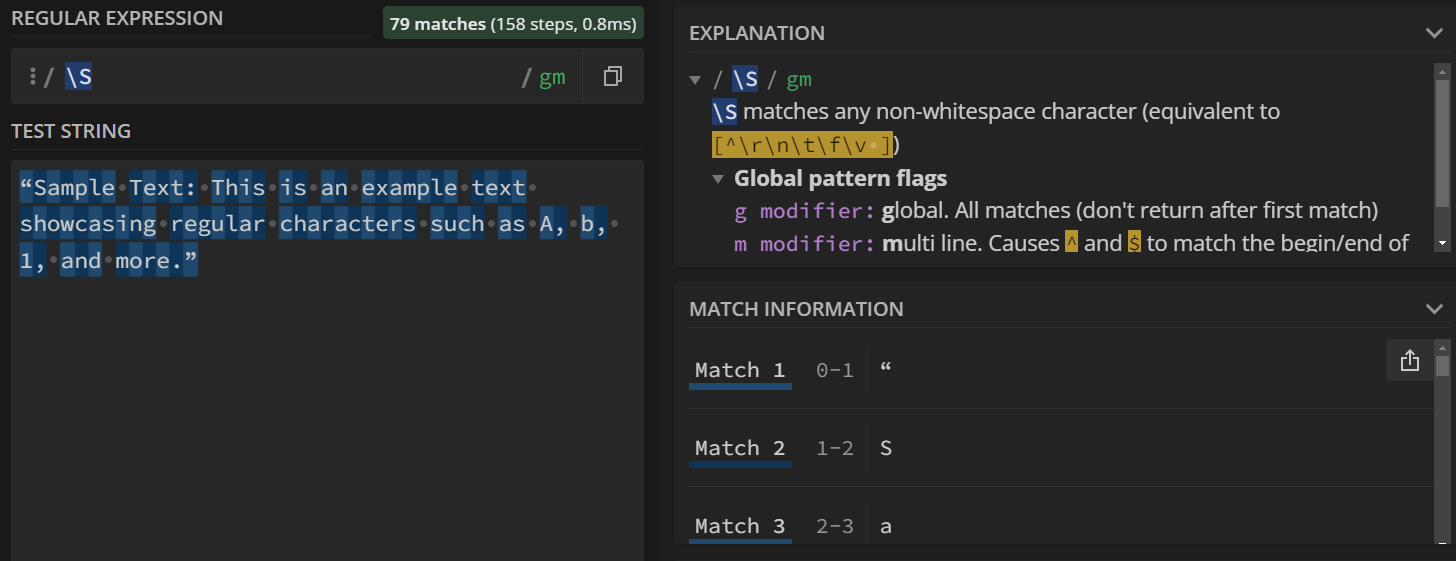
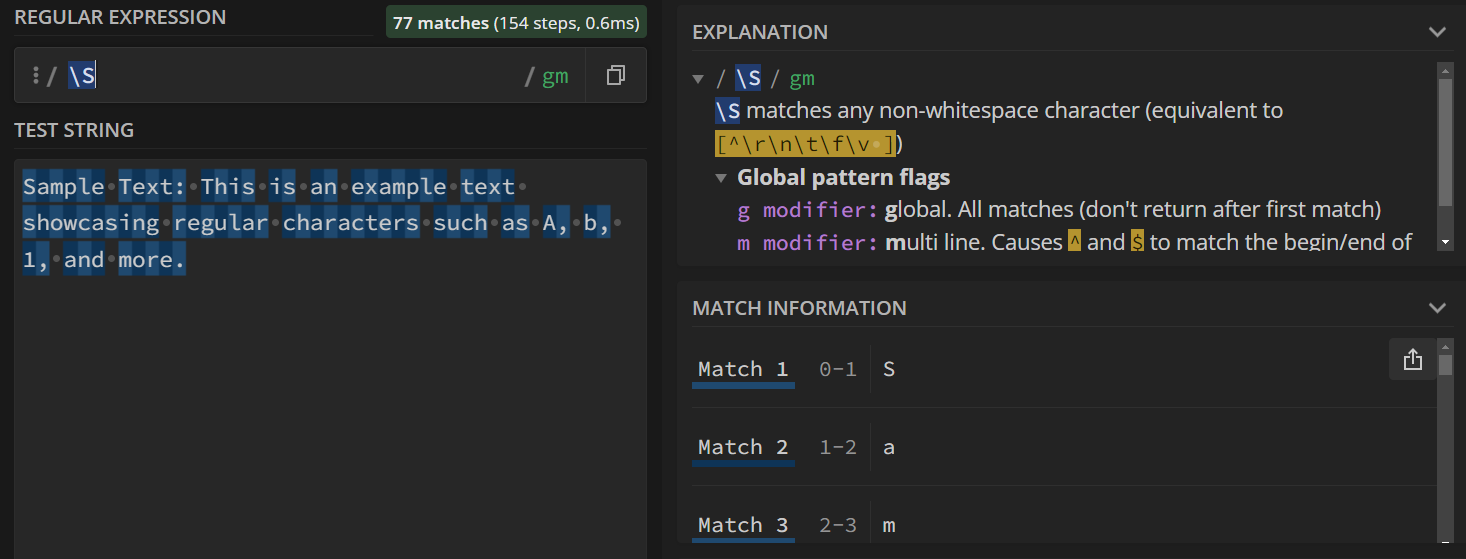
lesson 1 draft

diff --git a/lessons/lesson1.md b/lessons/lesson1.md
@@ -13,7 +13,7 @@ Add, edit, or remove any content below for the workshop in question. -->
 {: .no_toc}  
 # Lesson 1 - Basic Syntax and Character Matching
 
-A small description about the lesson.
+In this lesson, you will learn about how to use RegEx as a basic text searching tool, as well as some of the metacharacters it provides to do some more advanced searches.
 
 <!-- This is your table of contents. You don't need to touch it, it automatically creates it when you add or remove headers. If you do not want a header to be included, put {: .no_toc } above the header line, as you can see above with Lesson 1 - Lesson Name. Make sure that there's also an empty line above {: .no_toc }... Markdown is picky about this :( -->
 <details markdown="block" class="toc">
@@ -27,9 +27,9 @@ A small description about the lesson.
 
 <!-- Here are your learning objectives. Just like in the introduction, but more specific for this lesson. -->
 ## Lesson Objectives
-- A learning objective.
-- Second learning objective.
-- Another learning objective.
+- Use RegEx as a basic text searching tool.
+- Learn about and use metacharacters to create some more advanced searches.
+- Search for ranges of characters using character sets and ranges.
 
 <!-- A video for your lesson (if applicable) -->
 <!-- ## Lesson Video
@@ -42,10 +42,13 @@ The following video demonstrates each of the steps outlined below in text.
 <!-- Text content format for your lessons if you don't want to rely on videos, or want to provide another format of learning consumption. -->
 ## Regular Characters
 
-At its simplest, you can simply search for regular characters using regular expressions, much like other search tools (such as your browser's Ctrl+F search). Using any characters from A-Z, a-z, and 0-9 work like usual -- keep in mind that searches are case-sensitive.
+At its simplest, you can search for regular characters and words using regular expressions, much like other search tools (such as your browser's Ctrl+F search). Using any characters from A-Z, a-z, and 0-9 work like usual -- do keep in mind however that searches are case-sensitive.
 
 For the examples below, we'll search the following text:
-> "Sample Text: This is an example text showcasing regular characters such as A, b, 1, and more."
+
+```
+Sample Text: This is an example text showcasing regular characters such as A, b, 1, and more.
+```
 
 In the search below, we look for any occurrences of the term "example".
 
@@ -83,7 +86,7 @@ The example below uses the search query `i.`, which will return all occurences o
 
 ### Whitespace
 
-The \s metacharacter matches any whitespace character, which includes spaces, tabs, newlines, null characters, and carriage returns.
+The \s metacharacter matches any whitespace character, which includes spaces, tabs, newlines, null characters, and carriage returns. With a simple test string such as this one, it will only highlight the spaces. However, if you were to create a couple paragraphs, the tabs at the start of each paragraph as well as the newline (enter) characters will also be highlighted.
 
 <img src="../assets/img/basic6.png" width="100%" style="border: 2px solid #000;">
 
@@ -118,21 +121,21 @@ Like with whitespace, \D searches for any non-digit character.
 
 ## Character Sets and Ranges
 
-You can also create your own character sets for which characters to match using square brackets. 
+You can also create your own character sets for which characters to match using square brackets. Do not separate these characters by spaces or commas, otherwise the RegEx will also search for all occurrences of " " and "," as well.
 
 <img src="../assets/img/basic10.png" width="100%" style="border: 2px solid #000;">
 
-If you want to match several characters sequentially, you can use a character range instead. The range `a-d` searches for the letters a, b, c, and d. The range `a-z` similarly for every **lowercase** letter from a to z.
+If you want to match several characters sequentially, you can use a character range instead. The range `a-d` searches for the letters a, b, c, and d. The range `a-z` similarly searches for every **lowercase** letter from a to z.
 
 <img src="../assets/img/basic11.png" width="100%" style="border: 2px solid #000;">
 
-By adding a caret symbol (^) at the start of your character set, the search will look for any character *except* the characters in the set.
+By adding a caret symbol (^) at the start of your character set, the search will look for any character that is **not** in the set. This example below searches for all characters that are not a, b, c, or d.
 
 <img src="../assets/img/basic12.png" width="100%" style="border: 2px solid #000;">
 
 <!-- Summarize your learning objectives here. It acts as a reminder to the learner about what they just learned, as well as a checklist for you to make sure you covered everything you wished to cover. -->
 ## Key Points / Summary
 
-- Remind the student about what they just learned.
-- You can also note down any key information to keep in mind.
-
+- You can use RegEx as a basic text search tool if you're just looking of words.
+- Metacharacters can help you create more advanced queries.
+- Character sets and ranges can help you look for ranges of characters without having to specify each character seperately.
